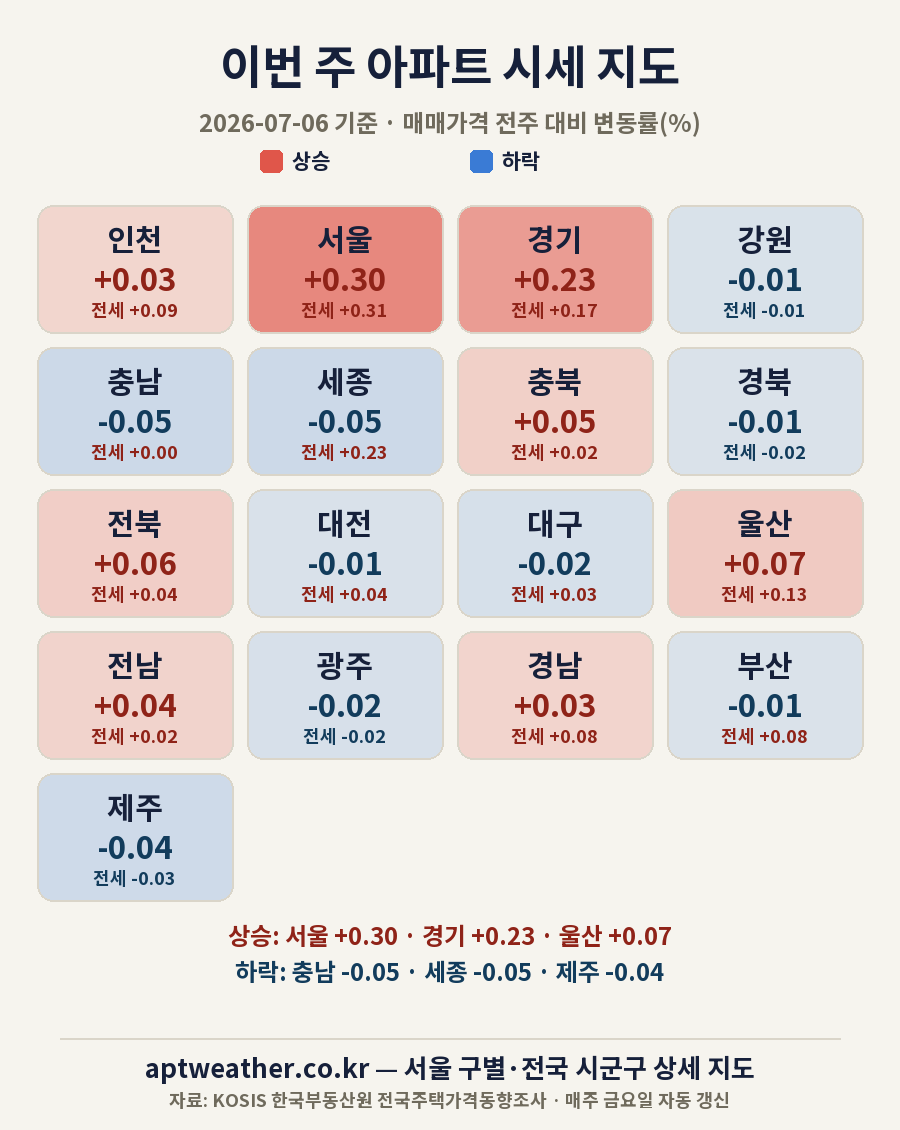
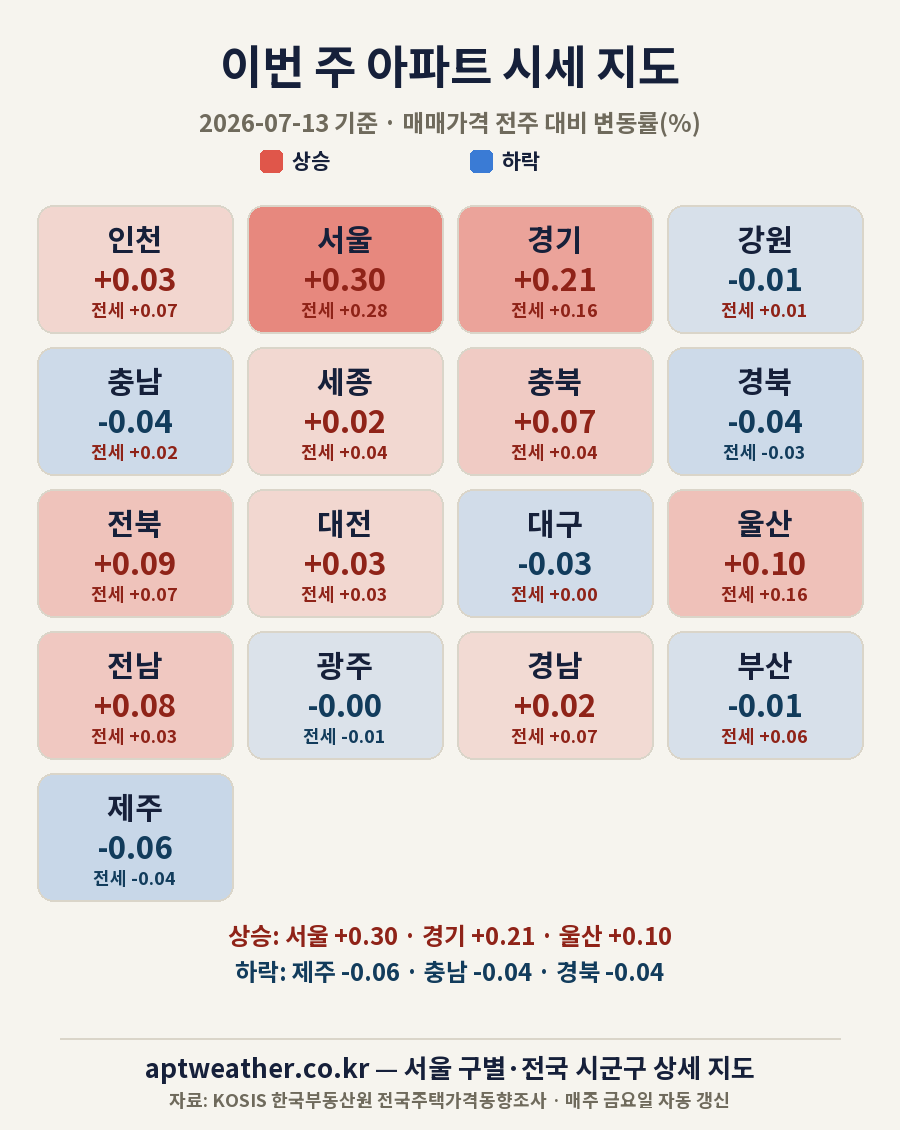
주간 데이터 소스를 R-ONE(부동산원 직접 API)으로 전환 — 발표 당일 반영
- 시도 18 + 서울 25구 = R-ONE 지수 전주비(교차검증: KOSIS 변동률과 일치)
- 시군구 상세는 KOSIS 유지(수일 뒤 자동 보충), R-ONE 실패 시 KOSIS 폴백
- 2026-07-13주(당일 발표분) 반영: 서울 매매 +0.30%

diff --git a/tools/update_adv_data.py b/tools/update_adv_data.py
@@ -26,6 +26,10 @@ LIST_API = 'https://kosis.kr/openapi/statisticsList.do'
 KEY = os.environ.get('KOSIS_API_KEY', '')
 ECOS_KEY = os.environ.get('ECOS_API_KEY', '')   # 한국은행 ECOS (CD금리용, 없으면 금리만 건너뜀)
 DATAGO_KEY = os.environ.get('DATA_GO_KR_KEY', '')   # 공공데이터포털 (입주예정물량용, 없으면 입주물량만 건너뜀)
+RONE_KEY = os.environ.get('RONE_API_KEY', '')       # 부동산원 R-ONE (주간 속보용 — KOSIS보다 4~7일 빠름)
+# R-ONE 주간 아파트 가격지수 (발표 당일 반영). 지수 → 전주비 변동률 계산.
+RONE_API = 'https://www.reb.or.kr/r-one/openapi/SttsApiTblData.do'
+RONE_TBL = {'maega': 'T244183132827305', 'jeonse': 'T247713133046872'}
 # 한국부동산원 주택공급정보 입주예정물량정보 (data.go.kr/data/15111714) — 반기 갱신, 30세대 이상 단지별
 OCC_API = 'https://api.odcloud.kr/api/15111714/v1/uddi:0b257760-ac19-4841-adb4-b38b4d153397'
 
@@ -226,7 +230,90 @@ def _gu_regions(*maps):
     return sorted(gus)
 
 
+# ---- R-ONE 주간 속보 (시도 18 + 서울 25구) --------------------------------
+# KOSIS는 발표 후 4~7일 지연되므로, 주간은 부동산원 R-ONE에서 직접 받는다.
+# 시군구 상세(sgg)는 지역코드 재매핑 부담이 커서 KOSIS 유지(수일 뒤 자동 보충).
+def _rone_recent_rows(tbl, need_rows):
+    base = {'KEY': RONE_KEY, 'Type': 'json', 'pSize': 1000, 'STATBL_ID': tbl, 'DTACYCLE_CD': 'WK'}
+    d = http_json(RONE_API + '?' + urllib.parse.urlencode(dict(base, pIndex=1, pSize=1)))
+    k = list(d.keys())[0]
+    total = d[k][0]['head'][0]['list_total_count']
+    rows = []
+    p = (total + 999) // 1000
+    while p >= 1 and len(rows) < need_rows:
+        d = http_json(RONE_API + '?' + urllib.parse.urlencode(dict(base, pIndex=p)))
+        k = list(d.keys())[0]
+        rows = d[k][1]['row'] + rows
+        p -= 1
+        time.sleep(0.15)
+    return rows
+
+
+def fetch_weekly_rone():
+    weeks = CONF['weekly']['weeks']
+    need = (weeks + 2) * 240        # 주당 ~236행
+    by = {}   # {'maega'|'jeonse': {date: {FULLNM: idx}}}
+    for key, tbl in RONE_TBL.items():
+        m = {}
+        for r in _rone_recent_rows(tbl, need):
+            full = (r.get('CLS_FULLNM') or '').strip()
+            t = (r.get('WRTTIME_DESC') or '').strip()
+            try: v = float(r['DTA_VAL'])
+            except (TypeError, ValueError, KeyError): continue
+            if len(t) == 10:
+                m.setdefault(t, {})[full] = v
+        by[key] = m
+        time.sleep(0.2)
+    dates = sorted(set(by['maega']) & set(by['jeonse']))[-(weeks + 1):]
+    if len(dates) < 2:
+        raise RuntimeError('R-ONE 주간 데이터 부족')
+
+    def sido(week, name):   # 시도·수도권 (광주/전남은 상위그룹 밑에 있음)
+        full = {'광주': '전남광주>광주', '전남': '전남광주>전남'}.get(name, name)
+        return week.get(full)
+
+    def seoul_gu(week):
+        out = {}
+        for full, v in week.items():
+            if full.startswith('서울>') and full.endswith('구'):
+                out[full.rsplit('>', 1)[-1]] = v
+        return out
+
+    def chg(a, b):
+        return None if (a in (None, 0) or b is None) else round((b / a - 1) * 100, 4)
+
+    rows, se_rows = [], []
+    gus = sorted(seoul_gu(by['maega'][dates[-1]]))
+    for prev, cur in zip(dates, dates[1:]):
+        rows.append({'p': cur,
+                     'ma': [chg(sido(by['maega'][prev], r), sido(by['maega'][cur], r)) for r in WEEKLY_REGIONS],
+                     'je': [chg(sido(by['jeonse'][prev], r), sido(by['jeonse'][cur], r)) for r in WEEKLY_REGIONS]})
+        ma_p, ma_c = seoul_gu(by['maega'][prev]), seoul_gu(by['maega'][cur])
+        je_p, je_c = seoul_gu(by['jeonse'][prev]), seoul_gu(by['jeonse'][cur])
+        se_rows.append({'p': cur,
+                        'ma': [chg(ma_p.get(g), ma_c.get(g)) for g in gus],
+                        'je': [chg(je_p.get(g), je_c.get(g)) for g in gus]})
+    return {'regions': WEEKLY_REGIONS, 'rows': rows,
+            'seoul': {'regions': gus, 'rows': se_rows},
+            'note': '주간 아파트 매매·전세가격지수 변동률(%) · 발표 당일 반영'}
+
+
 def fetch_weekly():
+    kosis = _fetch_weekly_kosis()
+    if not RONE_KEY:
+        return kosis
+    try:
+        rone = fetch_weekly_rone()
+        k_last = kosis['rows'][-1]['p'] if kosis.get('rows') else ''
+        if rone['rows'] and rone['rows'][-1]['p'] >= k_last:
+            rone['sgg'] = kosis.get('sgg')      # 시군구 상세는 KOSIS(자체 주차 라벨 유지)
+            return rone
+    except Exception as e:
+        print('rone weekly skip:', e)
+    return kosis
+
+
+def _fetch_weekly_kosis():
     w = CONF['weekly']
     ma, ma_se, ma_sg = _fetch_weekly_one(w['maega'], w['weeks'])
     time.sleep(0.2)